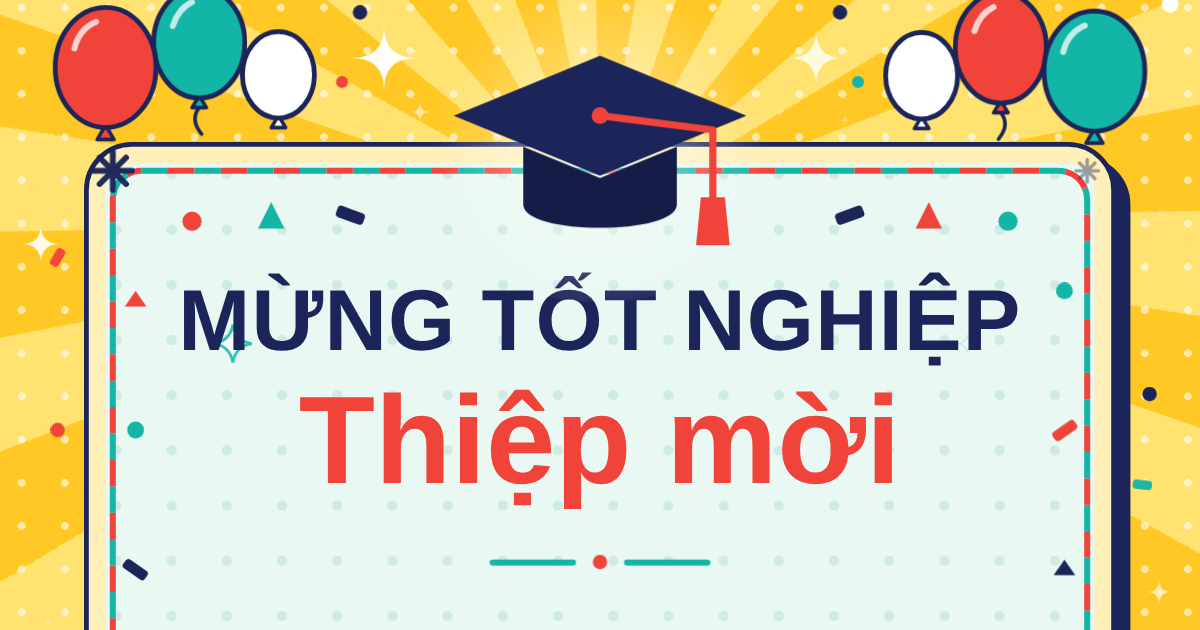
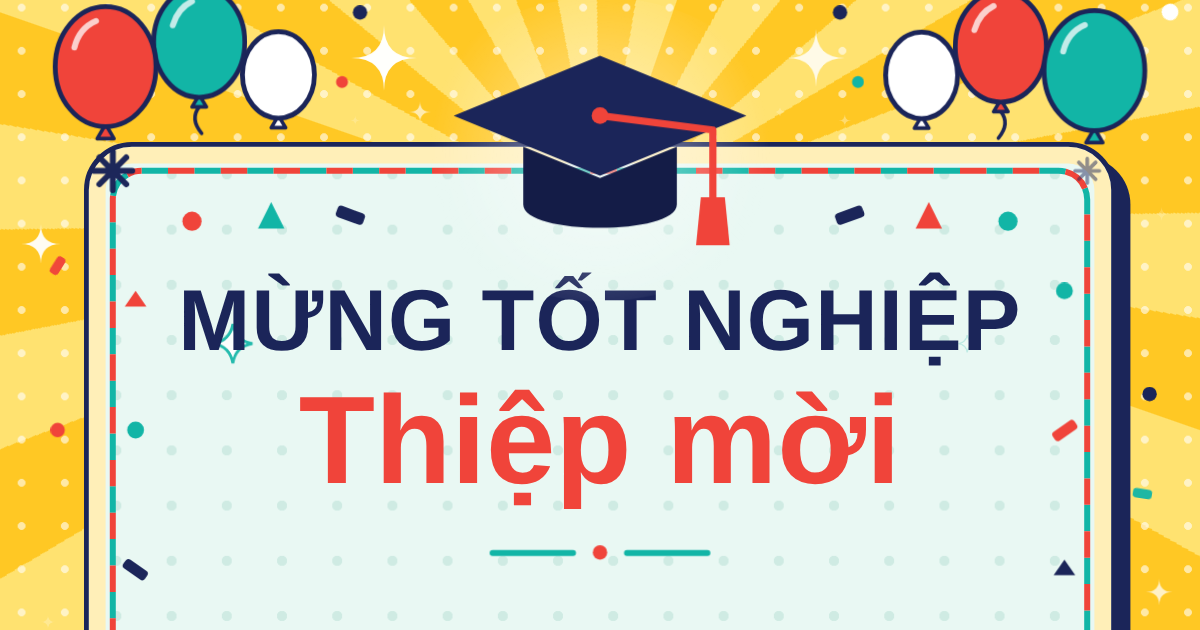
Điền địa chỉ và gắn link chỉ đường Google Maps
Claude-Session: https://claude.ai/code/session_01JPbwUTKGENMhpTmNKTcT9q

diff --git a/index.html b/index.html
@@ -4,11 +4,11 @@
 <meta charset="utf-8">
 <meta name="viewport" content="width=device-width, initial-scale=1">
 <title>Thiệp mời mừng tốt nghiệp — Trân &amp; Mẫn &amp; Vy</title>
-<meta name="description" content="17h30, ngày 27/11/2026 — Kính mời Anh/Chị đến chung vui với bộ ba Công Nghiệp: Trân &amp; Mẫn &amp; Vy.">
+<meta name="description" content="17h30, ngày 27/11/2026 tại 440 Dương Quảng Hàm, An Nhơn, TP.HCM — Kính mời Anh/Chị đến chung vui với bộ ba Công Nghiệp: Trân &amp; Mẫn &amp; Vy.">
 <meta property="og:type" content="website">
 <meta property="og:site_name" content="Thiệp mời mừng tốt nghiệp">
 <meta property="og:title" content="Thiệp mời mừng tốt nghiệp — Trân &amp; Mẫn &amp; Vy">
-<meta property="og:description" content="17h30, ngày 27/11/2026 — Kính mời Anh/Chị đến chung vui với bộ ba Công Nghiệp.">
+<meta property="og:description" content="17h30, ngày 27/11/2026 — 440 Dương Quảng Hàm, An Nhơn, TP.HCM">
 <meta property="og:url" content="https://mantran191919-design.github.io/thiep-moi-tot-nghiep/">
 <meta property="og:image" content="https://mantran191919-design.github.io/thiep-moi-tot-nghiep/og.png">
 <meta property="og:image:width" content="1200">
@@ -209,7 +209,13 @@ html,body{margin:0;height:100%;background:#1B2559;overflow:hidden}
 </div>
 <div style="flex: 1; min-width: 0; display: flex; flex-direction: column; gap: 6px">
 <div style="font-size: 17px; font-weight: 700; letter-spacing: 2px; color: #7FE4D6">ĐỊA CHỈ</div>
-<div style="box-sizing: border-box; min-height: 56px; padding: 8px 16px; border: 2px dashed #1B2559; border-radius: 14px; background: #FFF9E0; font-size: 26px; font-weight: 600; line-height: 1.4; color: #4A5380">[Địa chỉ quán: bổ sung sau]</div>
+<a href="https://maps.app.goo.gl/gio8jPLPKVPbxETR9" target="_blank" rel="noopener" style="box-sizing: border-box; min-height: 56px; padding: 10px 12px 10px 18px; border-radius: 14px; background: #FFF9E0; text-decoration: none; color: #1B2559; display: flex; flex-wrap: wrap; align-items: center; justify-content: space-between; gap: 10px">
+<span style="font-size: 24px; font-weight: 700; line-height: 1.3">440 Dương Quảng Hàm, An Nhơn, TP.HCM</span>
+<span style="flex: none; margin-left: auto; display: flex; align-items: center; gap: 7px; padding: 8px 15px; border-radius: 999px; background: #1B2559; color: #FFFFFF; font-size: 16px; font-weight: 700; letter-spacing: .5px; white-space: nowrap">
+<svg aria-hidden="true" width="16" height="16" viewBox="0 0 16 16" fill="none" stroke="#FFFFFF" stroke-width="2" stroke-linecap="round" stroke-linejoin="round"><path d="M14.5 1.5 L9 14.5 L7.2 8.8 L1.5 7 Z"></path></svg>
+CHỈ ĐƯỜNG
+</span>
+</a>
 </div>
 </div>
 </div>
